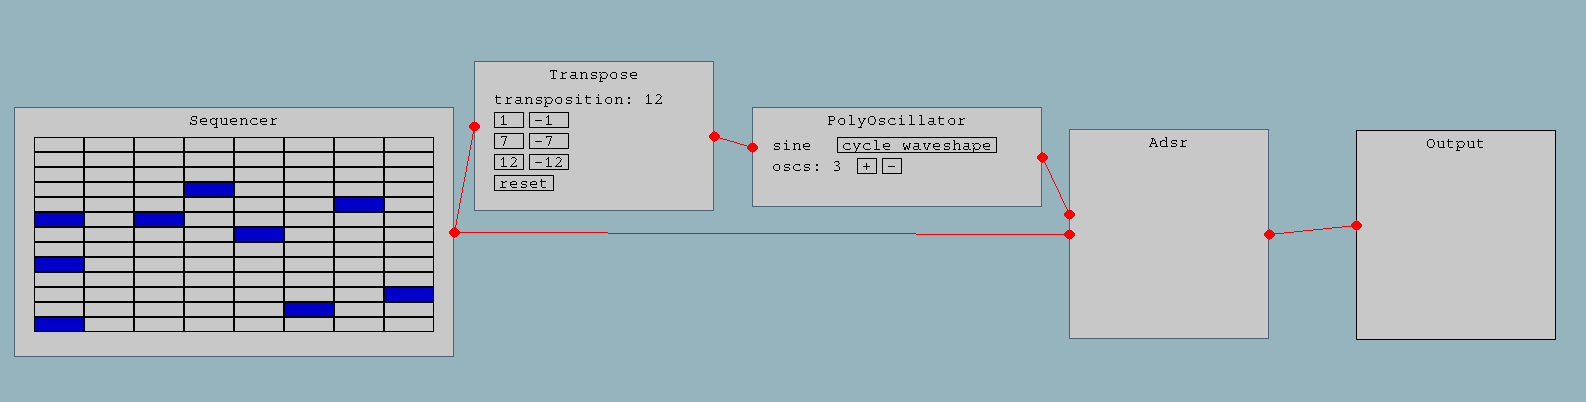
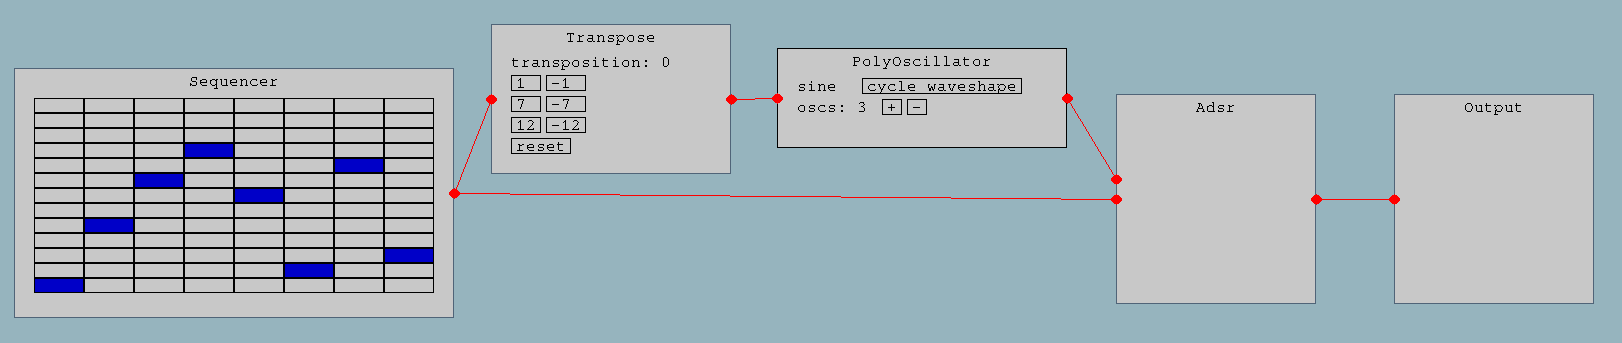
minor gui fix

Changed region(s): [[0.0, 0.0583, 0.9887, 0.9329]]

diff --git a/src/gui.rs b/src/gui.rs
@@ -79,7 +79,7 @@ impl ModuleWindow {
         const SPACING: i32 = 20;
         let (_, height) = self.padded_size();
         let len = self.inputs.len() as i32;
-        let y = self.y + height as i32 / 2 - SPACING * len / 2;
+        let y = self.y + height as i32 / 2 - SPACING * (len / 2);
         (0..len).map(|i| (self.x, y + SPACING * i as i32)).collect()
     }
 }
